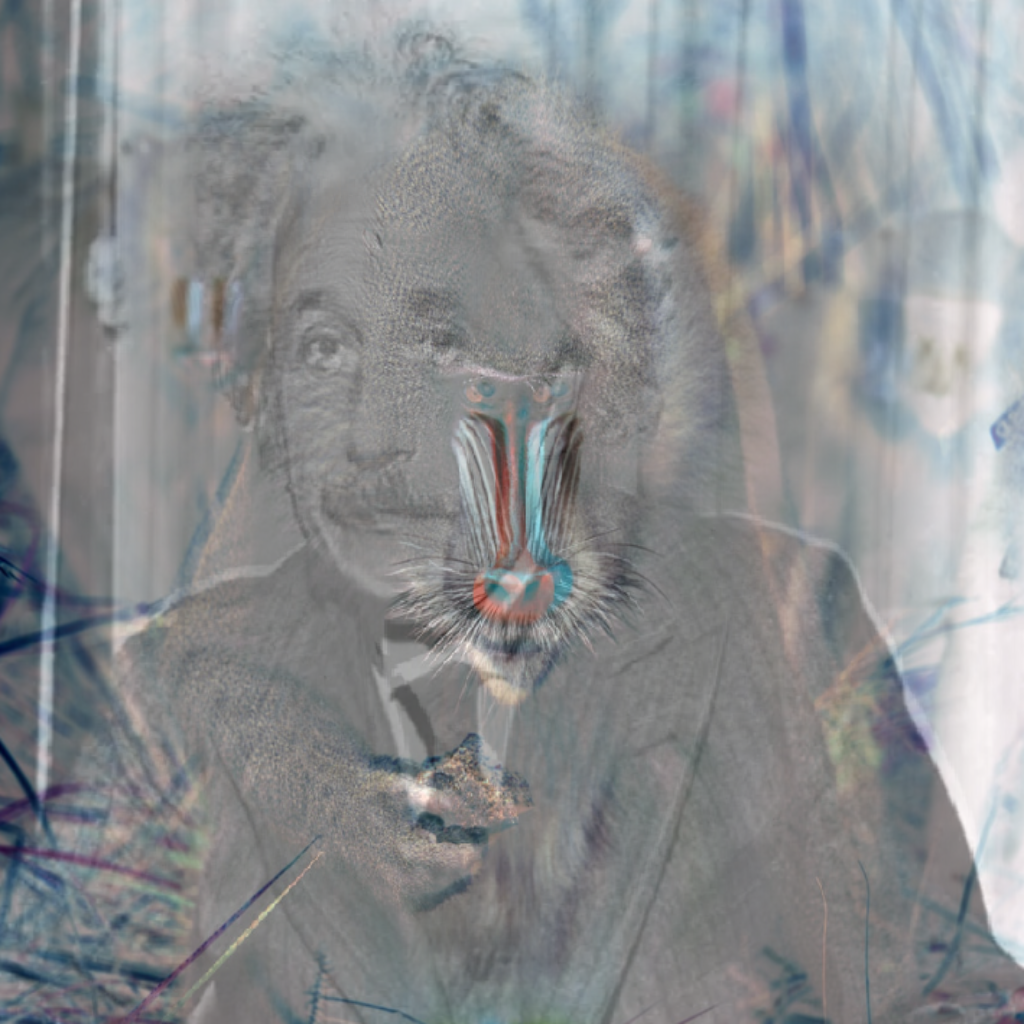
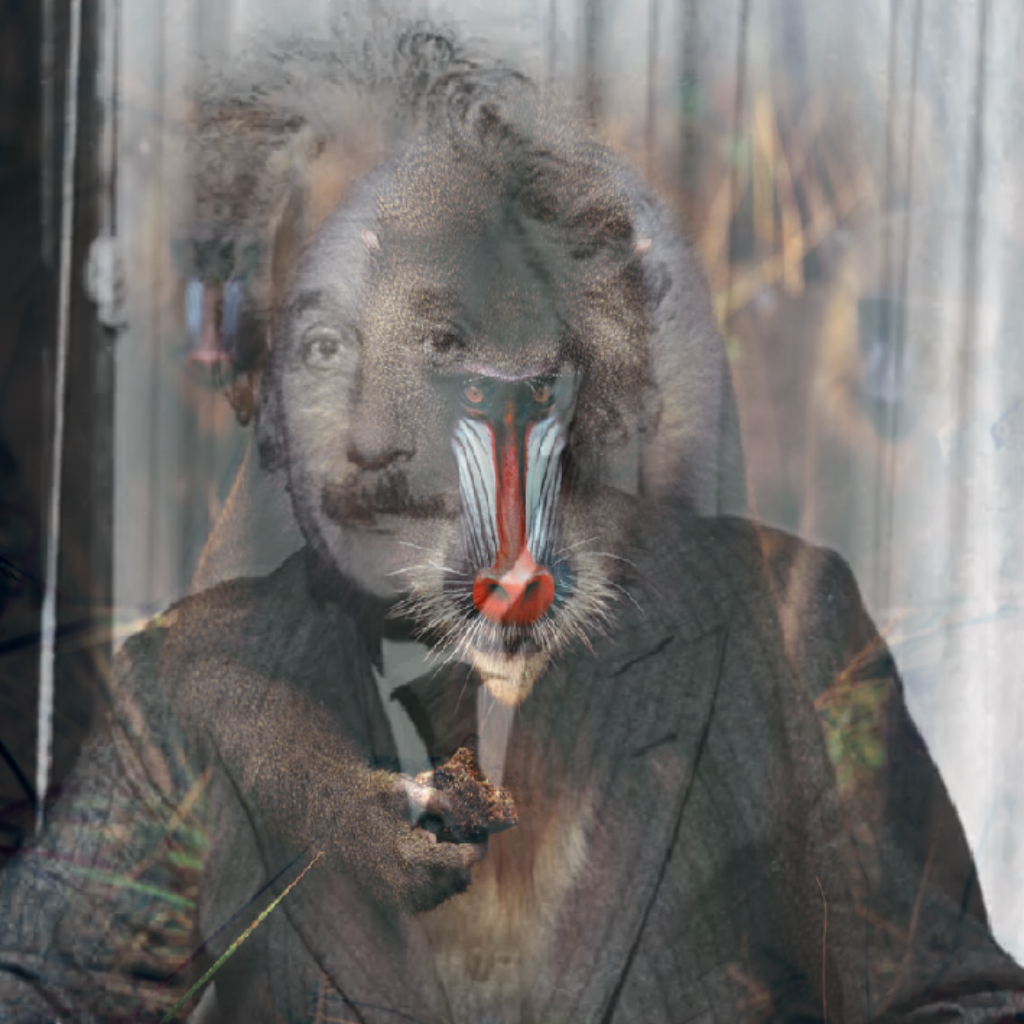
ICA

diff --git a/Independent_Component_Analysis/ICA.py b/Independent_Component_Analysis/ICA.py
@@ -29,15 +29,16 @@ def ScalingMatrix_Estimation(Y1, Y2, Theta):
 
     # Compute the variances along the rotation axes theta and (theta - pi/2)
     # Compute the rotated coordinates
-    Scaling_1 = Y1 * np.cos(Theta) + Y2 * np.sin(Theta)
-    Scaling_2 = Y1 * np.cos(Theta - (np.pi/2)) + Y2 * np.sin(Theta - (np.pi/2))
+    Scaling_1 = (Y1**2) * (np.cos(Theta))**2 + 2 * Y1 * Y2 * (np.cos(Theta)) * (np.sin(Theta)) + (Y2**2) * (np.sin(Theta))**2
+
+    Scaling_2 = (Y1**2) * (np.cos(Theta - (np.pi/ .2)))**2 + 2 * Y1 * Y2 * (np.cos(Theta - (np.pi/ .2))) * (np.sin(Theta - (np.pi/ .2))) + (Y2**2) * (np.sin(Theta - (np.pi/ .2)))**2
 
     # The Variances 's1' and 's2'
-    s1 = np.sum((Scaling_1)**2)
-    s2 = np.sum((Scaling_2)**2)
+    s1 = np.sum(Scaling_1)
+    s2 = np.sum(Scaling_2)
 
     # Construct the scaling matrix
-    Scaling_Matrix = np.diag([1 / s1, 1 / s2])
+    Scaling_Matrix = np.diag([1. / s1, 1. / s2])
     return Scaling_Matrix
 
 
@@ -91,27 +92,20 @@ image2 = cv2.resize(image2, (1024, 1024))
 # Get the Linear Mixing Matrix from the images
 M = Decomposition(image1, image2)
 
-
+# Apply the decomposition to the input images
 Im = np.concatenate([image1.reshape(1, -1), image2.reshape(1, -1)], axis=0)
 Im = np.matmul(M, Im)
 
+# Reshape and normalize the separated images
 i1 = Im[0, :]
 i2 = Im[1, :]
 
 i1, i2 = i1 - i1.min(), i2 - i2.min()
 i1, i2 = i1 * 255. / i1.max(), i2 * 255. / i2.max()
 
-h1 = i1
-h2 = i2
-h1 -= float(i1.min())
-h1 *= 255 / h1.max()
+# Convert the separated images back to uint8
+h1 = i1.reshape(image1.shape).clip(0, 255).astype(np.uint8)
+h2 = i2.reshape(image2.shape).clip(0, 255).astype(np.uint8)
 
-X1 = h1.reshape(image1.shape).clip(0, 255).astype(np.uint8)
-
-h2 -= float(i2.min())
-h2 *= 255 / h2.max()
-
-X2 = h2.reshape(image2.shape).clip(0, 255).astype(np.uint8)
-
-cv2.imwrite('1-ICA.png', X1)
-cv2.imwrite('2-ICA.png', X2)
+cv2.imwrite('1-ICA.png', h1)
+cv2.imwrite('2-ICA.png', h2)
